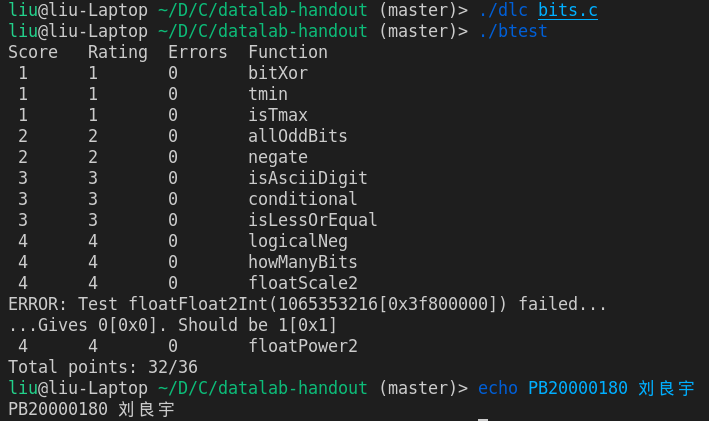
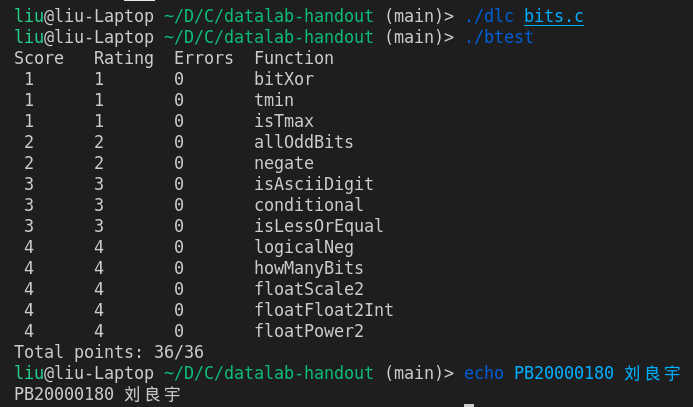
update datalab

Changed region(s): [[0.0, 0.0, 1.0, 1.0], [0.6667, 0.973, 0.697, 1.0]]

diff --git a/datalab-handout/bits.c b/datalab-handout/bits.c
@@ -310,7 +310,23 @@ unsigned floatScale2(unsigned uf) {
  *   Rating: 4
  */
 int floatFloat2Int(unsigned uf) {
-    return 0;
+    int expo = ((uf & 0x7f800000) >> 23) - 127;
+    int sign = uf & (1 << 31);
+    int frac = (uf & 0x007fffff) | 0x00800000;
+    int int_val = 0;
+
+    if (expo < 0) {  // 取整为 0
+        return 0;
+    }
+    if (expo > 31) {  // 超过 32 位，溢出
+        return 0x80000000;
+    }
+    if (expo < 23) {
+        int_val = frac >> (23 - expo);
+    } else if (expo > 23) {
+        int_val = frac << (expo - 23);
+    }
+    return sign ? -int_val : int_val;
 }
 /*
  * floatPower2 - Return bit-level equivalent of the exporession 2.0^x

diff --git a/report/实验报告.md b/report/实验报告.md
@@ -222,7 +222,29 @@ return ((expo + 1) << 23) + (uf & 0x807fffff);
 
 ### 12. floatFloat2Int
 
-(未做出) 需要考虑的情况有点多
+主要是根据指数位判断移位方式及位数。指数为负意味着对应整数为 0，超过 32 位 int 范围的做溢出处理，并注意判断正负即可
+
+```cpp
+int floatFloat2Int(unsigned uf) {
+    int expo = ((uf & 0x7f800000) >> 23) - 127;
+    int sign = uf & (1 << 31);
+    int frac = (uf & 0x007fffff) | 0x00800000;
+    int int_val = 0;
+
+    if (expo < 0) {  // 取整为 0
+        return 0;
+    }
+    if (expo > 31) {  // 超过 32 位，溢出
+        return 0x80000000;
+    }
+    if (expo < 23) {
+        int_val = frac >> (23 - expo);
+    } else if (expo > 23) {
+        int_val = frac << (expo - 23);
+    }
+    return sign ? -int_val : int_val;
+}
+```
 
 ### 13. floatPower2
 
@@ -241,7 +263,7 @@ return exp << 23;
 
 ![](srcs/lab1.png)
 
-通过代码要求测试，实际完成题目 12/13
+通过代码要求测试及正确性测试
 
 ## Bomb Lab
 
